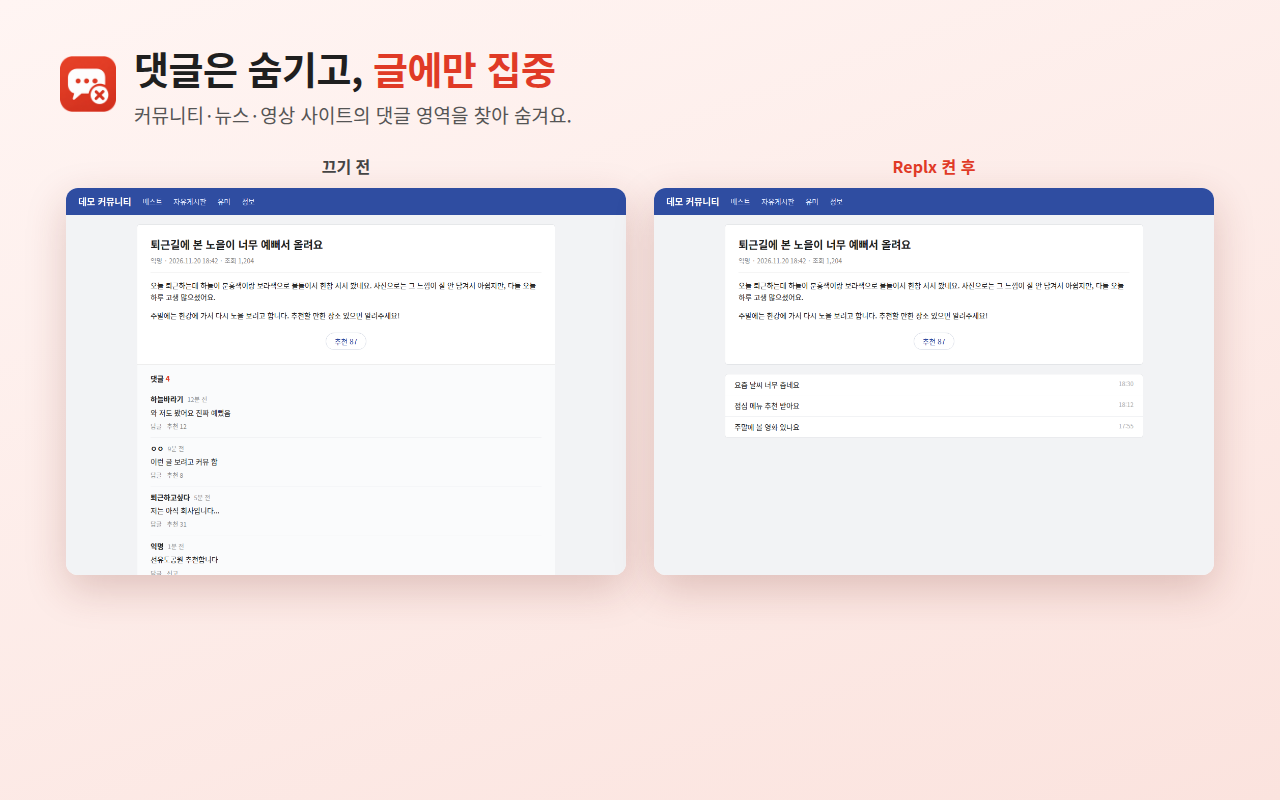
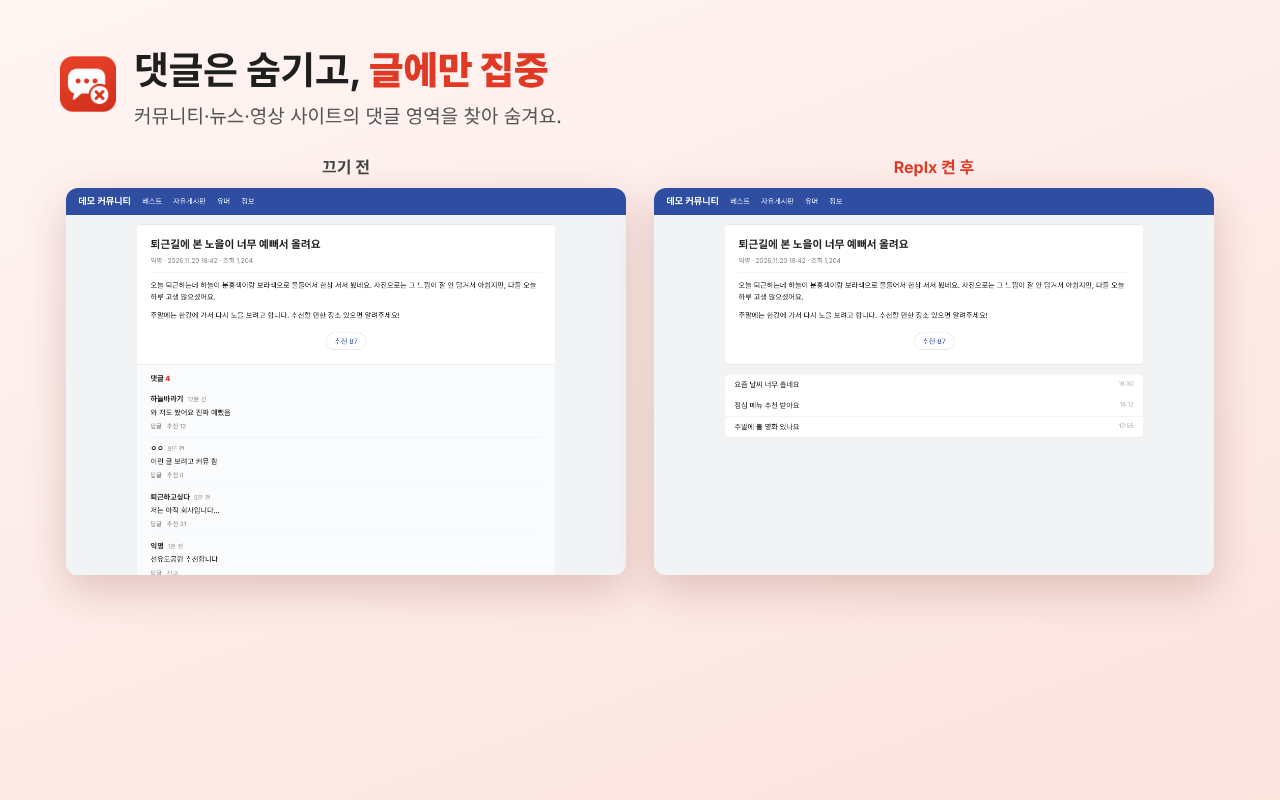
store: 마키 홍보 타일(1400×560) 추가, 스토어 이미지를 알파 없는 24비트 PNG로 저장
Claude-Session: https://claude.ai/code/session_01MfS4j3GUTPYj5fxNHwFtnf

diff --git a/tests/store_assets.py b/tests/store_assets.py
@@ -73,6 +73,26 @@ PROMO_HTML = f"""<!doctype html><html lang="ko"><head><meta charset="utf-8"><sty
 </body></html>"""
 
 
+def marquee_html(raw: Path) -> str:
+    return f"""<!doctype html><html lang="ko"><head><meta charset="utf-8"><style>
+  * {{ box-sizing: border-box; margin: 0; }}
+  body {{ width: 1400px; height: 560px; overflow: hidden; font-family: {FONT}; color: #fff;
+    background: linear-gradient(150deg, {RED} 0%, #c22a17 100%); position: relative; }}
+  .copy {{ position: absolute; left: 90px; top: 0; bottom: 0; display: flex; flex-direction: column; justify-content: center; }}
+  .copy img {{ width: 96px; height: 96px; border-radius: 22px; filter: drop-shadow(0 10px 20px rgba(0,0,0,.25)); }}
+  .copy h1 {{ font-size: 96px; line-height: 1; letter-spacing: -0.05em; margin: 20px 0 14px; }}
+  .copy p {{ font-size: 32px; font-weight: 700; opacity: .95; letter-spacing: -0.02em; }}
+  .shot {{ position: absolute; border-radius: 16px; overflow: hidden; box-shadow: 0 30px 60px -20px rgba(0,0,0,.45); }}
+  .shot img {{ display: block; }}
+  .s1 {{ right: 300px; top: 70px; transform: rotate(-3deg); }}
+  .s2 {{ right: 40px; top: 150px; transform: rotate(3deg); }}
+</style></head><body>
+  <div class="copy"><img src="{data_uri(ICON)}"><h1>Replx</h1><p>댓글은 숨기고, 글에만 집중</p></div>
+  <div class="shot s1"><img src="{data_uri(raw / 'after.png')}" width="560"></div>
+  <div class="shot s2"><img src="{data_uri(raw / 'allow.png')}" width="520"></div>
+</body></html>"""
+
+
 async def main():
     OUT.mkdir(parents=True, exist_ok=True)
     raw = Path(tempfile.mkdtemp(prefix="replx-store-"))
@@ -169,6 +189,20 @@ async def main():
             path = OUT / "promo-small.png"
             await canvas.screenshot(path=str(path))
             print("saved", path.relative_to(ROOT))
+
+            await canvas.set_viewport_size({"width": 1400, "height": 560})
+            await canvas.set_content(marquee_html(raw))
+            await canvas.wait_for_timeout(300)
+            path = OUT / "promo-marquee.png"
+            await canvas.screenshot(path=str(path))
+            print("saved", path.relative_to(ROOT))
+
+    # 웹 스토어는 알파 채널 없는 24비트 PNG만 받으므로 RGB로 다시 저장합니다.
+    from PIL import Image
+    for png in OUT.glob("*.png"):
+        im = Image.open(png)
+        if im.mode != "RGB":
+            im.convert("RGB").save(png)
 
 
 asyncio.run(main())
